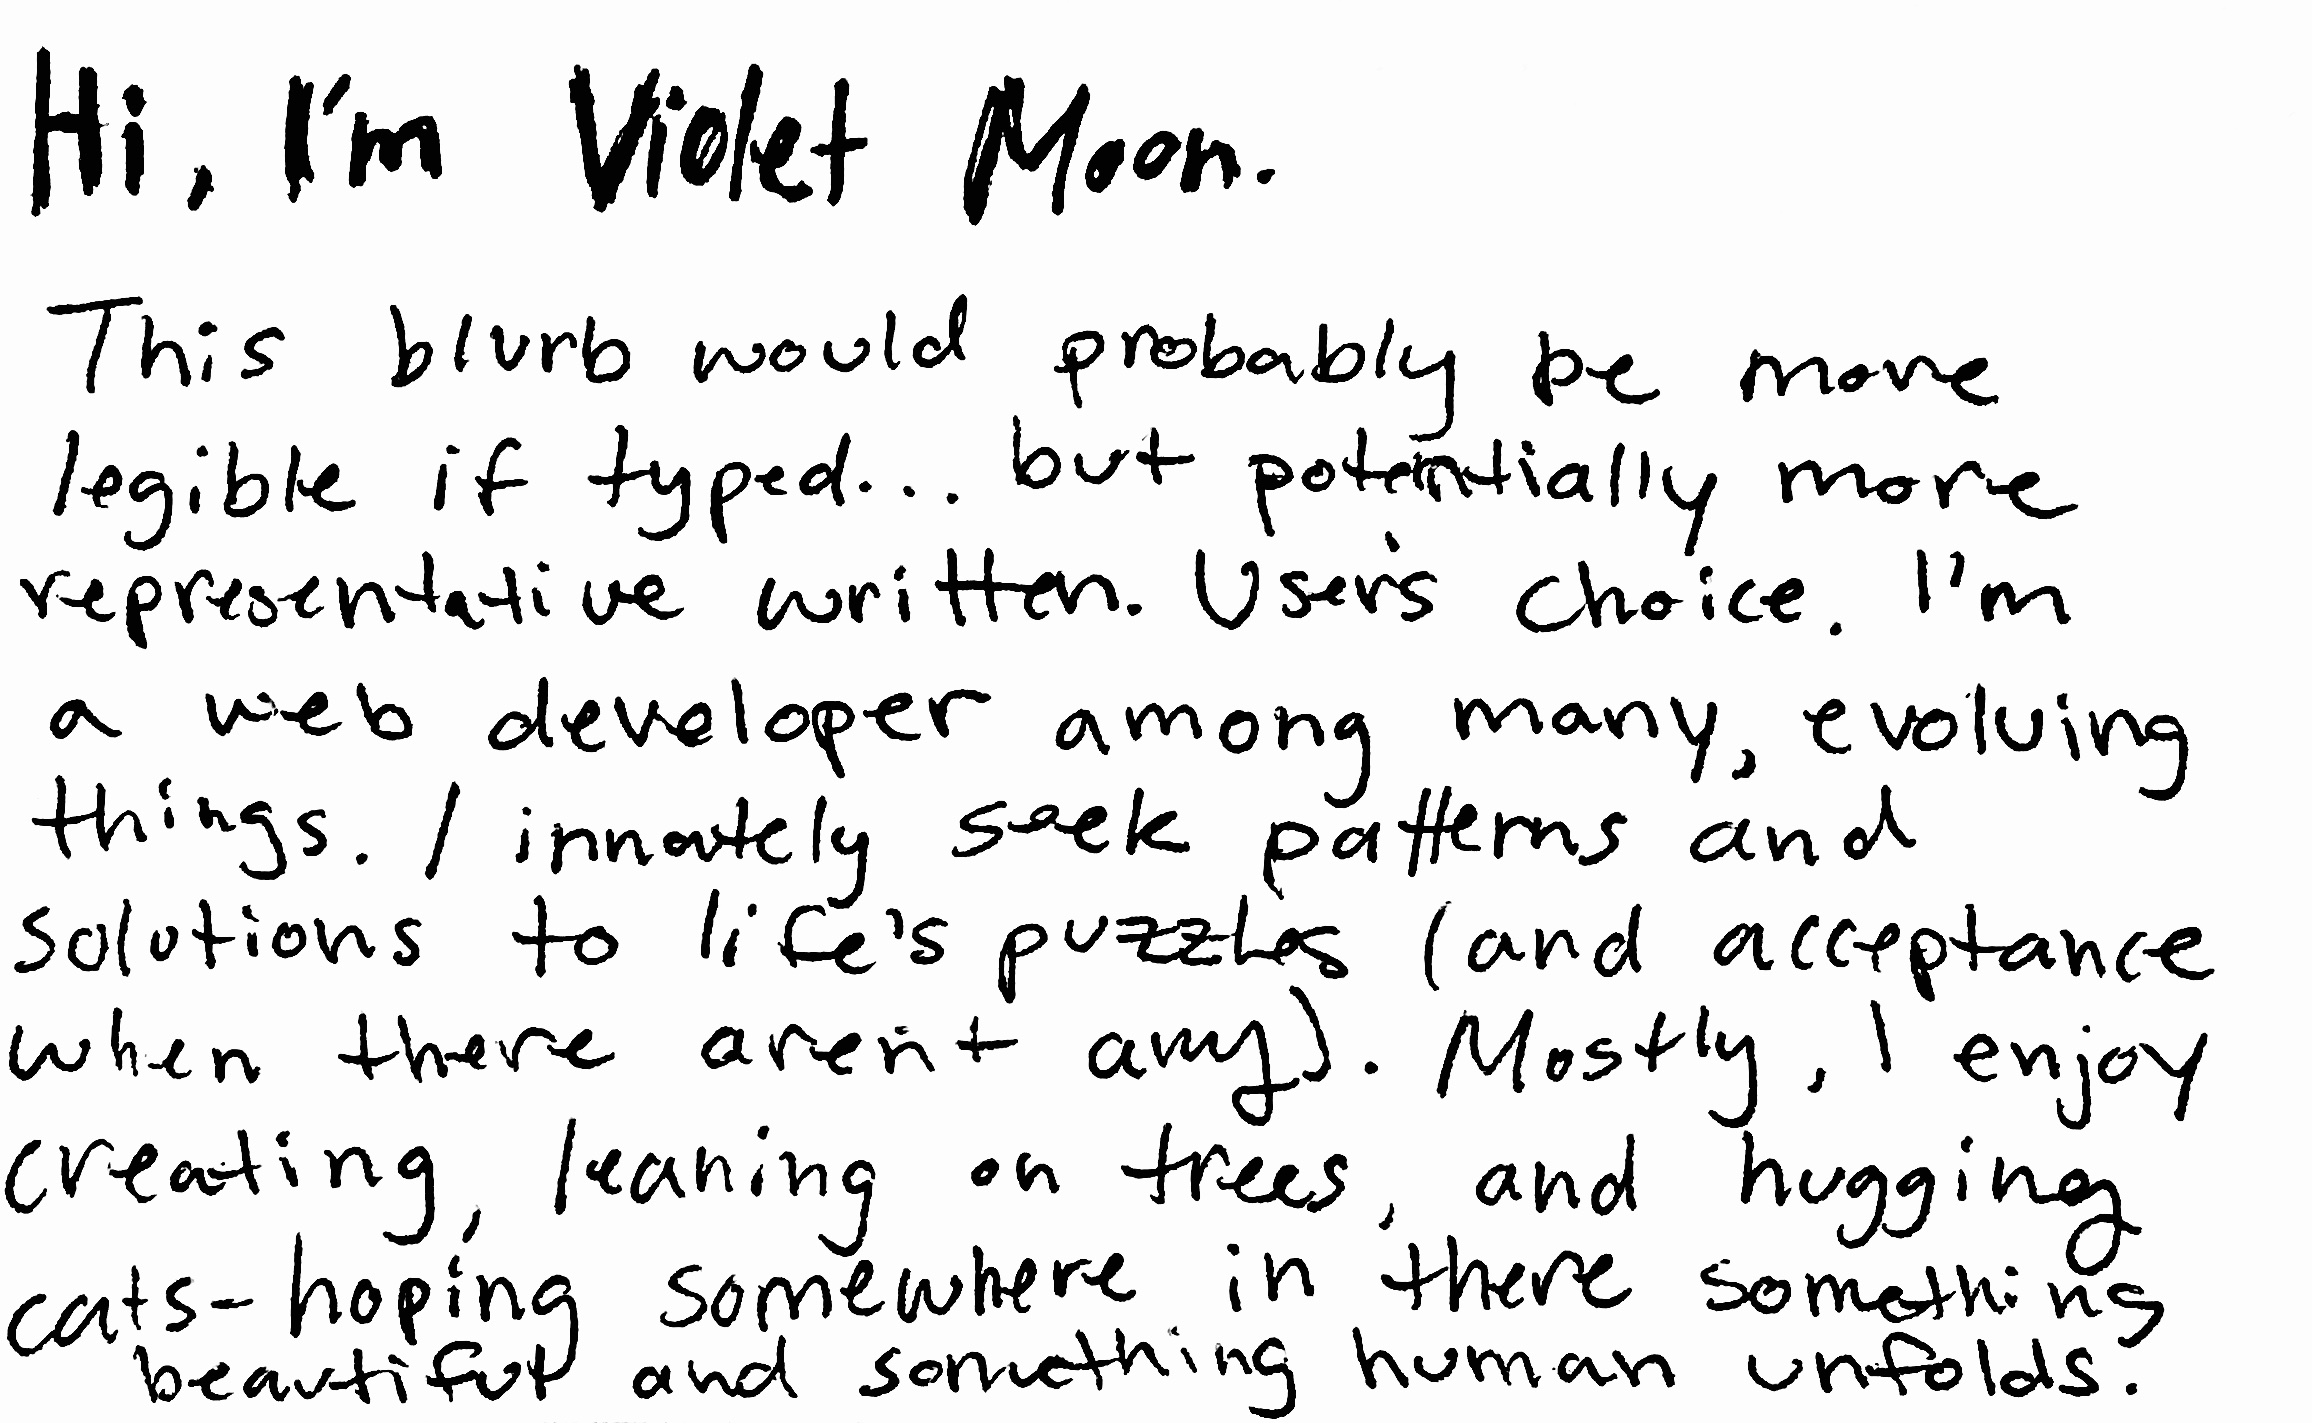
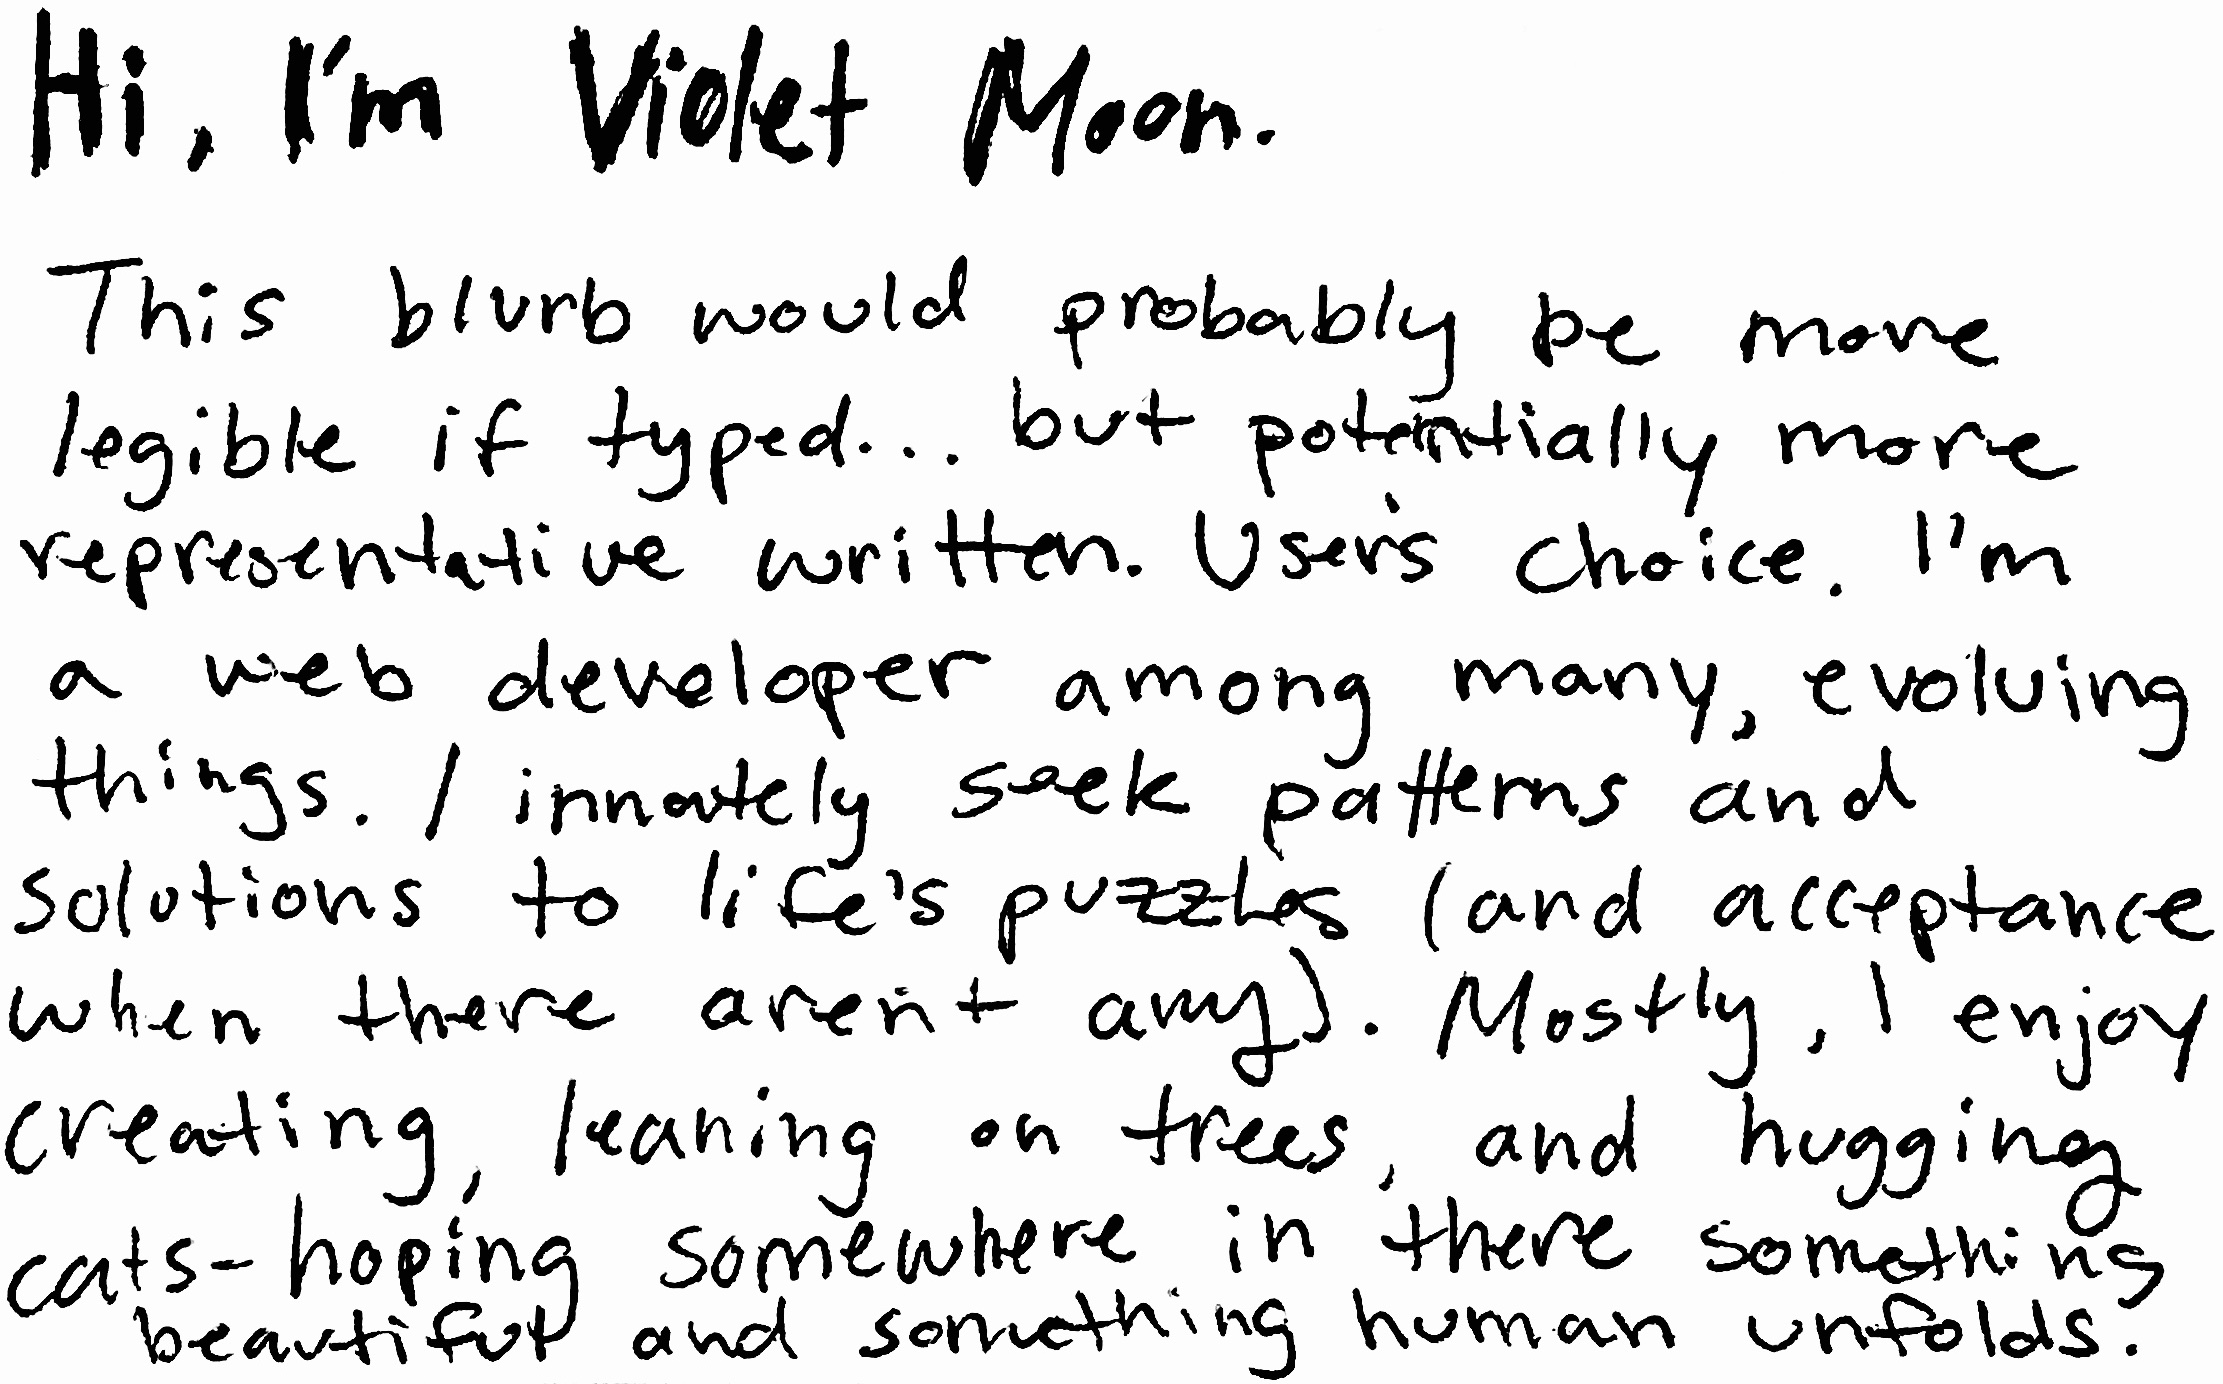
added text toggles on about

diff --git a/src/components/Body/About/About.jsx b/src/components/Body/About/About.jsx
@@ -1,16 +1,48 @@
-import React from 'react';
+import React, { useState } from 'react';
 const Bio = require('../../../assets/bio.jpg')
 
 export default function About() {
-  return (
-    <div style={container}>
-    	<img src={Bio} style={image}/>
-    </div>
-  );
+	const [isText, setTextView] = useState(false)
+
+	const onClickText = () => setTextView(true)
+	const onClickImg = () => setTextView(false)
+
+	return (
+		<div style={container}>
+			{/*{isText ? }*/}
+			<img src={Bio} style={image}/>
+			<div style={btnGroup}>
+				<div style={isText ? btn : selectedBtn} onClick={onClickImg} />
+				<div style={isText ? selectedBtn : btn} onClick={onClickText} />
+			</div>
+		</div>
+	);
 }
 
 const container = {
-    
+	display: 'flex',
+	flexDirection: 'column',
+	alignItems: 'center'
+}
+
+const btnGroup = {
+	display: 'flex',
+	marginTop: 20
+
+}
+
+const btn = {
+	border: '1px solid black',
+	borderRadius: '100%',
+	cursor: 'pointer',
+	height: 10,
+	width: 10,
+	marginRight: 5
+}
+
+const selectedBtn = {
+	...btn,
+	backgroundColor: 'black'
 }
 
 const image = {

diff --git a/src/components/Home.jsx b/src/components/Home.jsx
@@ -31,7 +31,7 @@ const container = {
     justifyContent: 'center',
     height: '100vh',
 
-    // backgroundColor: 'red',
+    // backgroundColor: 'red',  
     fontFamily: 'Roboto',
     fontWeight: 500,
     fontSize: 13
